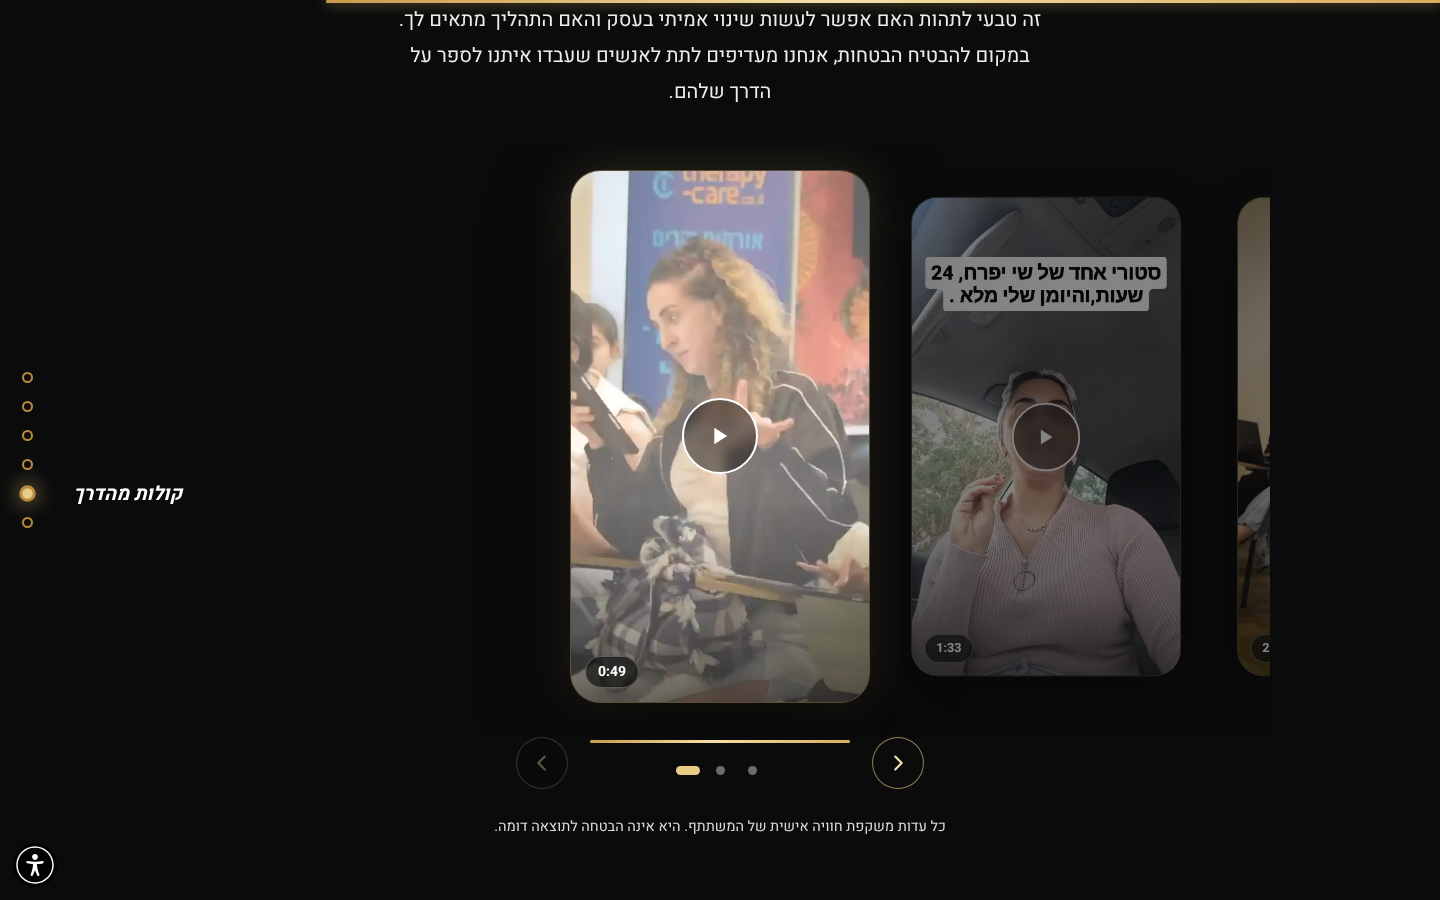
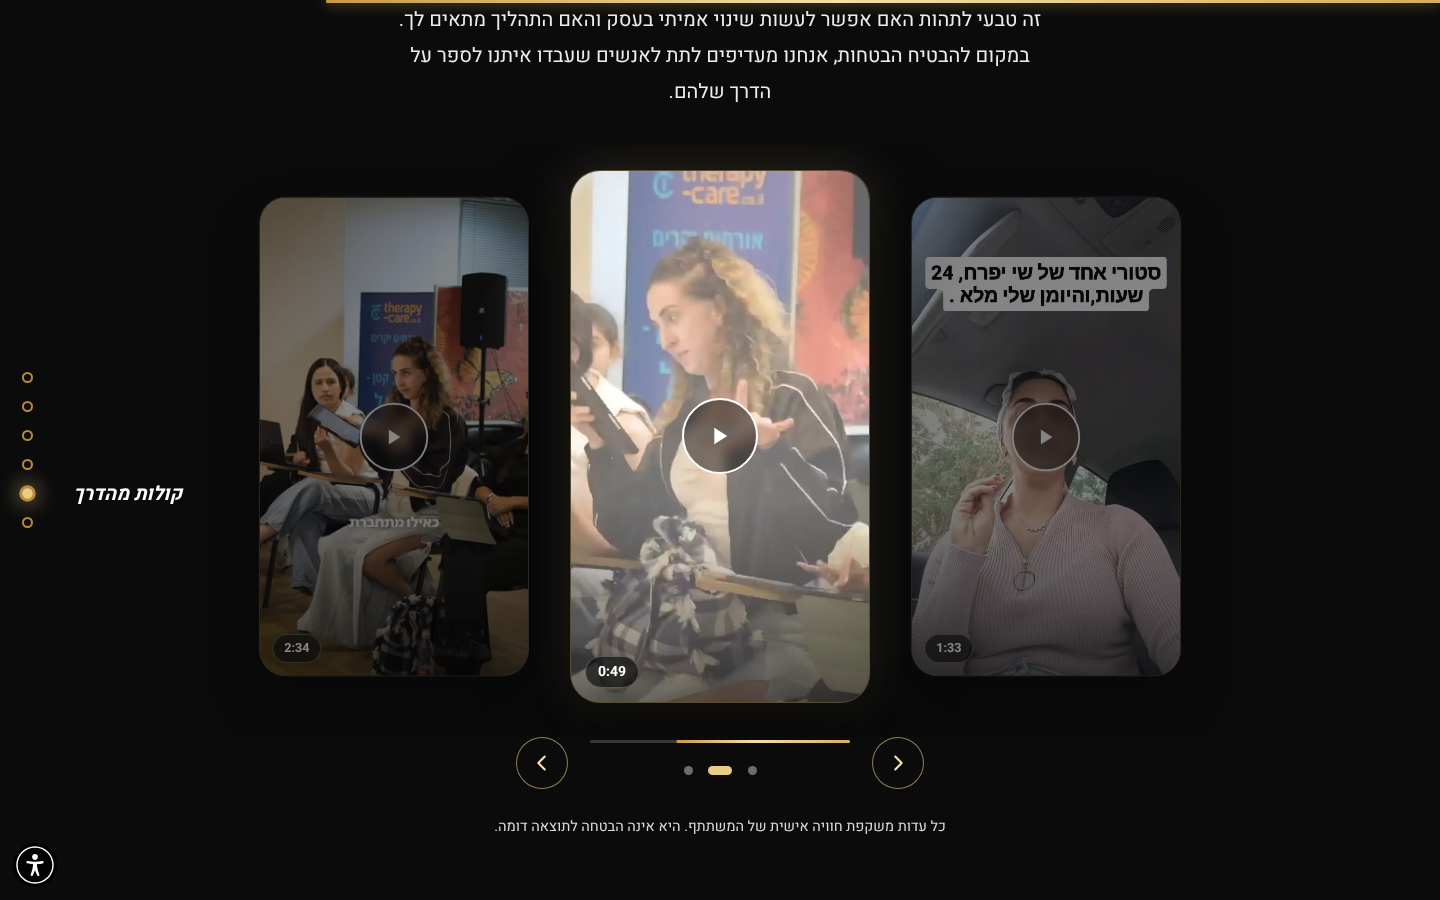
new-customer voices slider: 0:49 centered, 1:33 on the right
Claude-Session: https://claude.ai/code/session_01QXj8XGw8o92sZ4ygBjjvdm

diff --git a/pages/mentorshay/newcustomer.py b/pages/mentorshay/newcustomer.py
@@ -53,7 +53,7 @@ def foot():
 
 def voices_slider():
     """3 testimonial videos in the site's video slider (click-to-play, centered start on the middle card)."""
-    cards = [(VOICES_VIDEO, UP + "shay-testimonials-poster.webp", "2:34", 154), (VOICES_VIDEO_2, UP + "shay-testimonials-2-poster.webp", "1:33", 93), (VOICES_VIDEO_3, UP + "ms-testimonial-6.webp", "0:49", 49)]
+    cards = [(VOICES_VIDEO_2, UP + "shay-testimonials-2-poster.webp", "1:33", 93), (VOICES_VIDEO_3, UP + "ms-testimonial-6.webp", "0:49", 49), (VOICES_VIDEO, UP + "shay-testimonials-poster.webp", "2:34", 154)]   # RTL: first card is on the right; 0:49 is centered (data-start=1)
     vc = "".join(f'''<article class="ms-vcard" data-src="{src}" data-poster="{po}" data-label="עדות {k+1}: סרטון של משתתפת או משתתף" aria-roledescription="שקופית" aria-label="עדות {k+1} מתוך {len(cards)}"><div class="ms-frame"><img src="{po}" alt="" loading="lazy" decoding="async" width="576" height="1024"><button class="ms-play" type="button" aria-label="נגן עדות {k+1}, {d} דקות">{PLAY}</button><span class="ms-dur" aria-hidden="true">{d}</span></div></article>''' for k, (src, po, d, sec) in enumerate(cards))
     dots = "".join(f'<button type="button" role="tab" aria-selected="{"true" if k == 1 else "false"}" aria-label="עדות {k+1}"></button>' for k in range(len(cards)))
     A = '<svg viewBox="0 0 24 24" fill="none" stroke="currentColor" stroke-width="2.4" stroke-linecap="round" stroke-linejoin="round" aria-hidden="true"><path d="%s"/></svg>'
